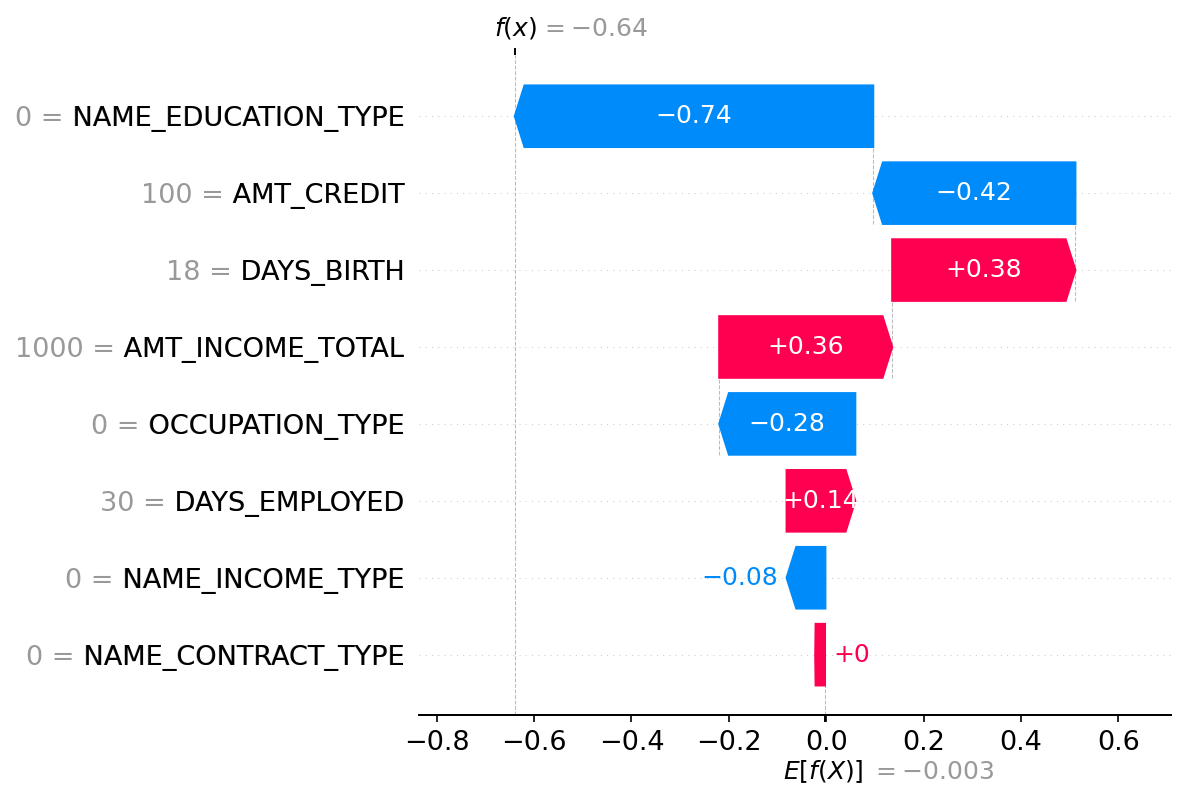
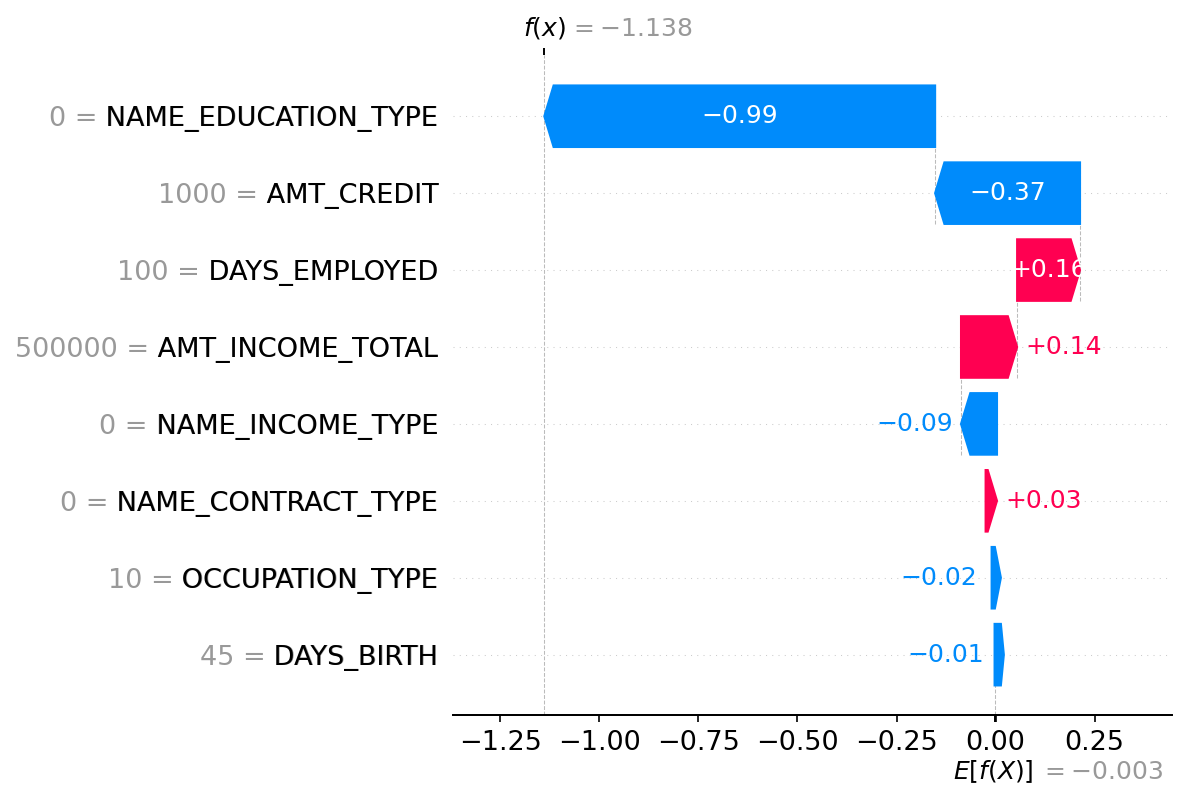
Added temporary chat history saving and improved error outputs

diff --git a/templates/chat.html b/templates/chat.html
@@ -425,19 +425,50 @@
                     msgDiv.innerHTML = `<div class="stream-content"></div>`;
                     const contentDiv = msgDiv.querySelector('.stream-content');
                     await streamText(contentDiv, parsedHTML);
+                    saveChatHistory();
                 } else {
-                    msgDiv.innerHTML = `Sorry, I encountered an error. Please try again.`;
+                    msgDiv.innerHTML = `Sorry, I encountered an error: ${data.error || 'Please try again.'}`;
+                    saveChatHistory();
                 }
             } catch (error) {
                 const rowDiv = document.getElementById(loadingId);
                 if (rowDiv) {
                     rowDiv.querySelector('.stream-target').innerHTML = `Network error. Could not connect to AI service.`;
+                    saveChatHistory();
                 }
             } finally {
                 chatSubmit.disabled = false;
                 chatInput.focus();
             }
         });
+
+        // Chat History Management
+        function saveChatHistory() {
+            // Save current timestamp + chat HTML
+            const chatData = {
+                html: chatMessages.innerHTML,
+                timestamp: new Date().getTime()
+            };
+            sessionStorage.setItem('tempChatHistory', JSON.stringify(chatData));
+        }
+
+        function loadChatHistory() {
+            const historyStr = sessionStorage.getItem('tempChatHistory');
+            if (historyStr) {
+                try {
+                    const chatData = JSON.parse(historyStr);
+                    // 2-hour expiration for temporary chat (2 * 60 * 60 * 1000)
+                    if (new Date().getTime() - chatData.timestamp < 7200000) {
+                        chatMessages.innerHTML = chatData.html;
+                        chatMessages.scrollTop = chatMessages.scrollHeight;
+                        return true;
+                    } else {
+                        sessionStorage.removeItem('tempChatHistory');
+                    }
+                } catch(e) {}
+            }
+            return false;
+        }
 
         function appendMessage(sender, content) {
             const rowDiv = document.createElement('div');
@@ -525,15 +556,21 @@
                         msgDiv.innerHTML = `<div class="stream-content"></div>`;
                         const contentDiv = msgDiv.querySelector('.stream-content');
                         await streamText(contentDiv, parsedHTML);
+                        saveChatHistory();
                     } else {
-                        msgDiv.innerHTML = `Sorry, I encountered an error. Please try again.`;
+                        msgDiv.innerHTML = `Sorry, I encountered an error: ${resData.error || 'Please try again.'}`;
+                        saveChatHistory();
                     }
                 } catch (error) {
                     const rowDiv = document.getElementById(loadingId);
                     if (rowDiv) {
                         rowDiv.querySelector('.stream-target').innerHTML = `Network error. Could not connect to AI service.`;
+                        saveChatHistory();
                     }
                 }
+            } else {
+                // No pending analysis, just load history if exists
+                loadChatHistory();
             }
         });
     </script>